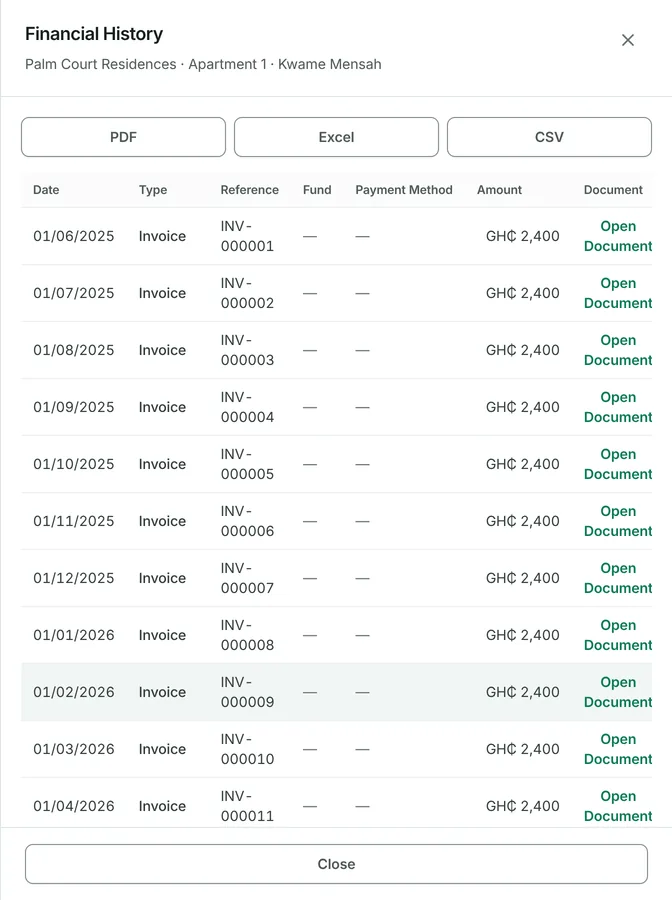
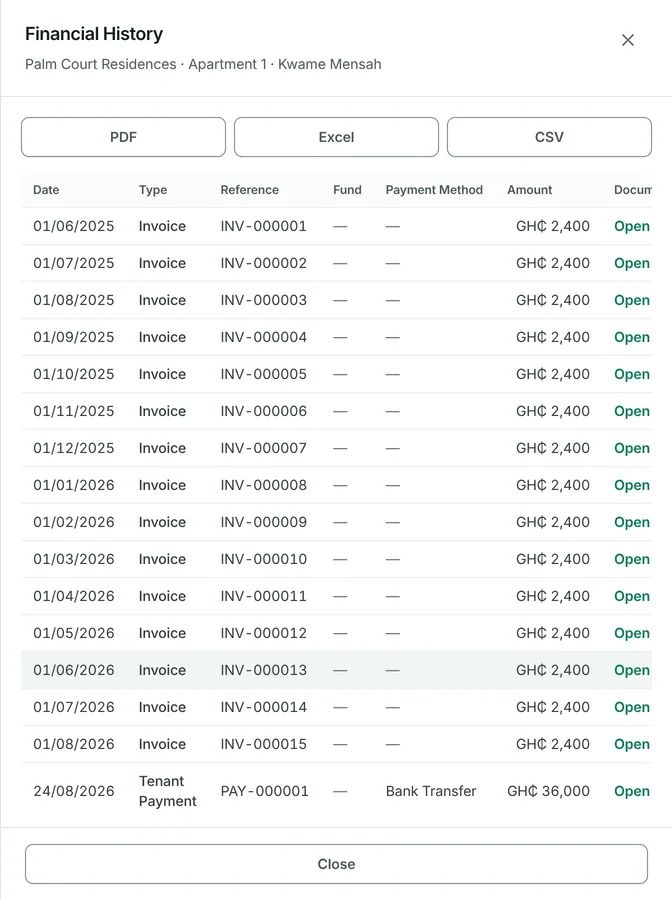
The history table fits its drawer in French too
Seven columns, and "Mode de paiement" alone is wide enough to push Open
past the edge of the panel. Narrower gutters for this table only; the
type size, the columns and their words all stay as the export writes
them.

diff --git a/resources/css/components.css b/resources/css/components.css
@@ -1532,6 +1532,30 @@ input[type='radio']:focus-visible {
 }
 
 /*
+| A table with more columns than a drawer comfortably holds.
+|
+| V1.0.45, for the lease financial history: seven columns, and in French
+| the headers alone ("Mode de paiement") push the last of them past the
+| edge. Narrower gutters buy back most of that without touching the type
+| size, which is what a reader actually needs to keep.
+*/
+.pm-panel-table-dense th,
+.pm-panel-table-dense td {
+    padding-left: 0.5rem;
+    padding-right: 0.5rem;
+}
+
+.pm-panel-table-dense th:first-child,
+.pm-panel-table-dense td:first-child {
+    padding-left: 0.75rem;
+}
+
+.pm-panel-table-dense th:last-child,
+.pm-panel-table-dense td:last-child {
+    padding-right: 0.75rem;
+}
+
+/*
 | The one column allowed to be long.
 |
 | A note or a reference can be any length, and letting it push the amount

diff --git a/resources/js/leases.js b/resources/js/leases.js
@@ -9493,7 +9493,7 @@ function drawLeaseFinancialHistory() {
         ${exportActions}
 
         <div class="pm-panel-table-scroll">
-            <table class="pm-panel-table">
+            <table class="pm-panel-table pm-panel-table-dense">
                 <thead>
                     <tr>
                         <th>${escapeHtml(translate('leases.financial_history_export_date'))}</th>
